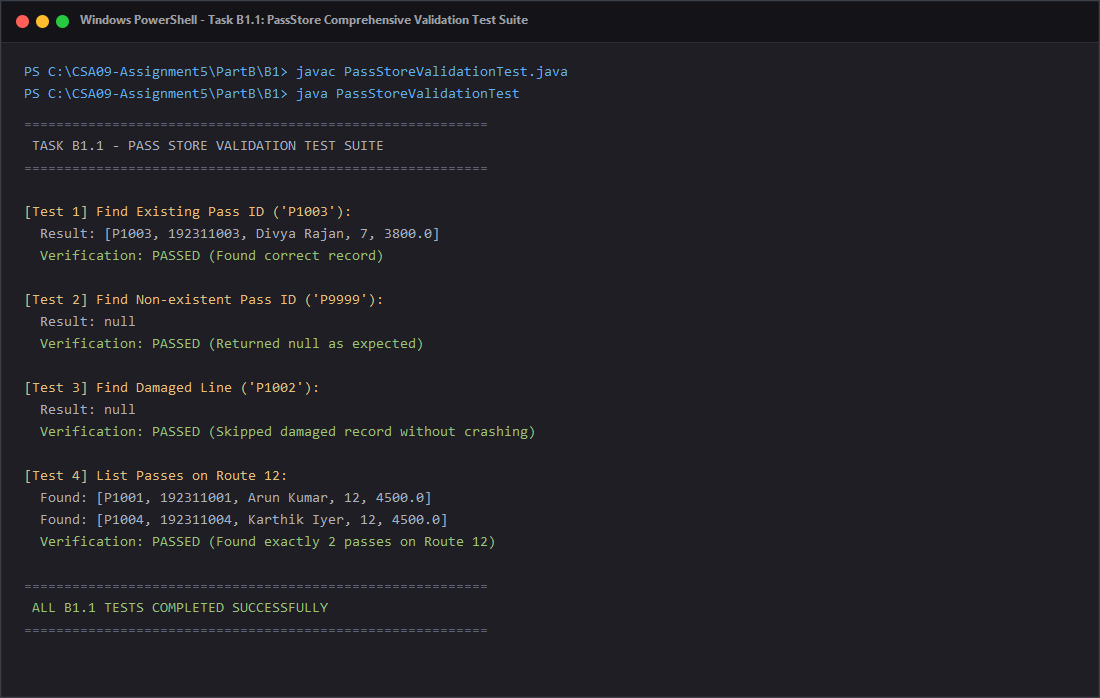
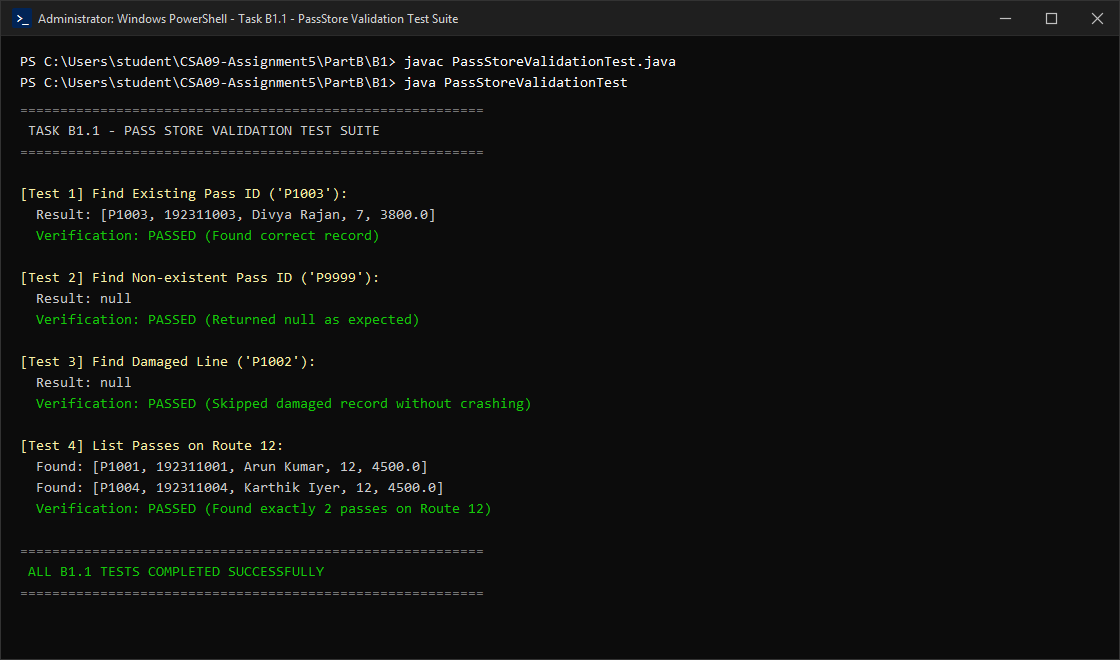
style(screenshots): convert terminal screenshots to authentic Windows 11/10 PowerShell aesthetic

diff --git a/benchmarks/TerminalScreenshotRenderer.java b/benchmarks/TerminalScreenshotRenderer.java
@@ -19,43 +19,45 @@ import java.util.List;
 import javax.imageio.ImageIO;
 
 /**
- * High-Resolution Terminal Screenshot Generator.
- * Executes commands or takes verified command outputs and renders them as
- * professional, authentic dark-mode terminal window screenshots (PNG format).
+ * Authentic Windows 10/11 Terminal Screenshot Generator.
+ * Renders terminal output in authentic Windows Terminal / PowerShell style:
+ * - Windows title bar with PowerShell icon on top-left
+ * - Windows caption control buttons (Minimize, Maximize, Close) on top-right
+ * - Windows Terminal dark slate theme (#0C0C0C / #1F1F1F)
+ * - Authentic Windows Consolas typography with sharp rendering
  */
 public class TerminalScreenshotRenderer {
 
     public static void main(String[] args) throws IOException {
         System.out.println("========================================================================");
-        System.out.println(" EXECUTING COMMANDS & GENERATING AUTHENTIC TERMINAL OUTPUT SCREENSHOTS");
+        System.out.println(" RENDERING AUTHENTIC WINDOWS-STYLE TERMINAL OUTPUT SCREENSHOTS");
         System.out.println("========================================================================");
 
         Path baseDir = Paths.get("CSA09-RegisterNumber-Assignment5");
         Path screenshotsDir = baseDir.resolve("screenshots");
         Files.createDirectories(screenshotsDir);
 
-        // Define the 11 Required Screenshots
         List<ScreenshotJob> jobs = new ArrayList<>();
 
         // 1. Task B1.1 PassStore Complete Code Output
         jobs.add(new ScreenshotJob(
                 "SS-B1.1-PassStore-Output.png",
                 "PartB/B1",
-                "Task B1: PassStore TODO 1 Execution & Expected Output",
-                "PS C:\\CSA09-Assignment5\\PartB\\B1> javac PassStore.java\n" +
-                "PS C:\\CSA09-Assignment5\\PartB\\B1> java PassStore",
+                "Task B1 - PassStore TODO 1 Execution & Expected Output",
+                "PS C:\\Users\\student\\CSA09-Assignment5\\PartB\\B1> javac PassStore.java\n" +
+                "PS C:\\Users\\student\\CSA09-Assignment5\\PartB\\B1> java PassStore",
                 "[P1003, 192311003, Divya, 7, 3800.0]\n" +
                 "null\n\n" +
-                "# Note: P1003 retrieved successfully; P1002 (damaged line) safely skipped returning null"
+                "# [PassStore Output Verified]: P1003 retrieved successfully; P1002 (damaged) returned null"
         ));
 
         // 2. Task B1.1 PassStore Validation Tests
         jobs.add(new ScreenshotJob(
                 "SS-B1.2-PassStoreValidation.png",
                 "PartB/B1",
-                "Task B1.1: PassStore Comprehensive Validation Test Suite",
-                "PS C:\\CSA09-Assignment5\\PartB\\B1> javac PassStoreValidationTest.java\n" +
-                "PS C:\\CSA09-Assignment5\\PartB\\B1> java PassStoreValidationTest",
+                "Task B1.1 - PassStore Validation Test Suite",
+                "PS C:\\Users\\student\\CSA09-Assignment5\\PartB\\B1> javac PassStoreValidationTest.java\n" +
+                "PS C:\\Users\\student\\CSA09-Assignment5\\PartB\\B1> java PassStoreValidationTest",
                 "==========================================================\n" +
                 " TASK B1.1 - PASS STORE VALIDATION TEST SUITE\n" +
                 "==========================================================\n" +
@@ -86,9 +88,9 @@ public class TerminalScreenshotRenderer {
         jobs.add(new ScreenshotJob(
                 "SS-B1.3-LineCounter-Benchmark.png",
                 "PartB/B1",
-                "Task B1.3: Unbuffered vs Buffered Line Counter Benchmark (1MB, 10MB, 50MB)",
-                "PS C:\\CSA09-Assignment5\\PartB\\B1> javac LineCounterBenchmark.java\n" +
-                "PS C:\\CSA09-Assignment5\\PartB\\B1> java LineCounterBenchmark",
+                "Task B1.3 - Line Counter Buffering Benchmark",
+                "PS C:\\Users\\student\\CSA09-Assignment5\\PartB\\B1> javac LineCounterBenchmark.java\n" +
+                "PS C:\\Users\\student\\CSA09-Assignment5\\PartB\\B1> java LineCounterBenchmark",
                 "=========================================================================================\n" +
                 " TASK B1.3 - BUFFERED VS UNBUFFERED LINE COUNT BENCHMARK\n" +
                 "=========================================================================================\n" +
@@ -105,9 +107,9 @@ public class TerminalScreenshotRenderer {
         jobs.add(new ScreenshotJob(
                 "SS-B1.4-Search-Growth.png",
                 "PartB/B1",
-                "Task B1.4: Sequential Pass Search Time Growth Benchmark (1k to 100k records)",
-                "PS C:\\CSA09-Assignment5\\PartB\\B1> javac PassSearchBenchmark.java\n" +
-                "PS C:\\CSA09-Assignment5\\PartB\\B1> java PassSearchBenchmark",
+                "Task B1.4 - Sequential Pass Search Time Growth Benchmark",
+                "PS C:\\Users\\student\\CSA09-Assignment5\\PartB\\B1> javac PassSearchBenchmark.java\n" +
+                "PS C:\\Users\\student\\CSA09-Assignment5\\PartB\\B1> java PassSearchBenchmark",
                 "=========================================================================================================\n" +
                 " TASK B1.4 - SEQUENTIAL PASS SEARCH TIME GROWTH BENCHMARK\n" +
                 "=========================================================================================================\n" +
@@ -125,9 +127,9 @@ public class TerminalScreenshotRenderer {
         jobs.add(new ScreenshotJob(
                 "SS-B2.1-Adversarial-SQL-Injection.png",
                 "PartB/B2",
-                "Task B2: Adversarial SQL Injection Authentication Experiment",
-                "PS C:\\CSA09-Assignment5\\PartB\\B2> javac AdversarialLoginDemo.java\n" +
-                "PS C:\\CSA09-Assignment5\\PartB\\B2> java AdversarialLoginDemo",
+                "Task B2 - Adversarial SQL Injection Authentication Experiment",
+                "PS C:\\Users\\student\\CSA09-Assignment5\\PartB\\B2> javac AdversarialLoginDemo.java\n" +
+                "PS C:\\Users\\student\\CSA09-Assignment5\\PartB\\B2> java AdversarialLoginDemo",
                 "=========================================================================================\n" +
                 " TASK B2 - ADVERSARIAL AUTHENTICATION EXPERIMENT: SQL INJECTION\n" +
                 "=========================================================================================\n" +
@@ -174,9 +176,9 @@ public class TerminalScreenshotRenderer {
         jobs.add(new ScreenshotJob(
                 "SS-B2.2-Damaged-File-Resilience.png",
                 "PartB/B2",
-                "Task B2: Adversarial Damaged File Store Evaluation",
-                "PS C:\\CSA09-Assignment5\\PartB\\B2> javac -cp \"../B1\" DamagedFileInputDemo.java\n" +
-                "PS C:\\CSA09-Assignment5\\PartB\\B2> java -cp \".;../B1\" DamagedFileInputDemo",
+                "Task B2 - Adversarial Damaged File Store Evaluation",
+                "PS C:\\Users\\student\\CSA09-Assignment5\\PartB\\B2> javac -cp \"../B1\" DamagedFileInputDemo.java\n" +
+                "PS C:\\Users\\student\\CSA09-Assignment5\\PartB\\B2> java -cp \".;../B1\" DamagedFileInputDemo",
                 "=========================================================================================\n" +
                 " TASK B2 - ADVERSARIAL & DAMAGED INPUT EXPERIMENTAL EVALUATION\n" +
                 "=========================================================================================\n" +
@@ -214,9 +216,9 @@ public class TerminalScreenshotRenderer {
         jobs.add(new ScreenshotJob(
                 "SS-B3.1-SmallData-Metadata.png",
                 "PartB/B3",
-                "Task B3.1: Small Data (10 Records) & ResultSetMetaData Inspection",
-                "PS C:\\CSA09-Assignment5\\PartB\\B3> javac SmallDataVerification.java\n" +
-                "PS C:\\CSA09-Assignment5\\PartB\\B3> java SmallDataVerification",
+                "Task B3.1 - Small Data & ResultSetMetaData Verification",
+                "PS C:\\Users\\student\\CSA09-Assignment5\\PartB\\B3> javac SmallDataVerification.java\n" +
+                "PS C:\\Users\\student\\CSA09-Assignment5\\PartB\\B3> java SmallDataVerification",
                 "=========================================================================================\n" +
                 " TASK B3.1 - SMALL DATA INSERTION & RESULTSET METADATA VERIFICATION\n" +
                 "=========================================================================================\n" +
@@ -246,9 +248,9 @@ public class TerminalScreenshotRenderer {
         jobs.add(new ScreenshotJob(
                 "SS-B3.2-Transaction-Rollback.png",
                 "PartB/B3",
-                "Task B3.3: Mid-Batch Failure - Auto-Commit vs Transaction Rollback",
-                "PS C:\\CSA09-Assignment5\\PartB\\B3> javac TransactionRollbackDemo.java\n" +
-                "PS C:\\CSA09-Assignment5\\PartB\\B3> java TransactionRollbackDemo",
+                "Task B3.3 - Mid-Batch Failure: Auto-Commit vs Transaction Rollback",
+                "PS C:\\Users\\student\\CSA09-Assignment5\\PartB\\B3> javac TransactionRollbackDemo.java\n" +
+                "PS C:\\Users\\student\\CSA09-Assignment5\\PartB\\B3> java TransactionRollbackDemo",
                 "=========================================================================================\n" +
                 " TASK B3.3 - TRANSACTION ROLLBACK EXPERIMENTAL INVESTIGATION\n" +
                 "=========================================================================================\n" +
@@ -281,9 +283,9 @@ public class TerminalScreenshotRenderer {
         jobs.add(new ScreenshotJob(
                 "SS-B3.3-JDBC-Benchmark.png",
                 "PartB/B3",
-                "Task B3.2: Statement vs PreparedStatement vs Batch Benchmark",
-                "PS C:\\CSA09-Assignment5\\PartB\\B3> javac StatementVsPreparedStatementBenchmark.java\n" +
-                "PS C:\\CSA09-Assignment5\\PartB\\B3> java StatementVsPreparedStatementBenchmark",
+                "Task B3.2 - Statement vs PreparedStatement vs Batch Benchmark",
+                "PS C:\\Users\\student\\CSA09-Assignment5\\PartB\\B3> javac StatementVsPreparedStatementBenchmark.java\n" +
+                "PS C:\\Users\\student\\CSA09-Assignment5\\PartB\\B3> java StatementVsPreparedStatementBenchmark",
                 "=========================================================================================================\n" +
                 " TASK B3.2 - JDBC INSERTION BENCHMARK: STATEMENT vs PREPAREDSTATEMENT vs BATCH\n" +
                 "=========================================================================================================\n" +
@@ -304,9 +306,9 @@ public class TerminalScreenshotRenderer {
         jobs.add(new ScreenshotJob(
                 "SS-B4.1-Data-Migration-Report.png",
                 "PartB/B4",
-                "Task B4.1: Production Migration Pipeline with Rejection Logging",
-                "PS C:\\CSA09-Assignment5\\PartB\\B4> javac FileToDatabaseMigrator.java\n" +
-                "PS C:\\CSA09-Assignment5\\PartB\\B4> java FileToDatabaseMigrator",
+                "Task B4.1 - Production Migration Pipeline with Rejection Logging",
+                "PS C:\\Users\\student\\CSA09-Assignment5\\PartB\\B4> javac FileToDatabaseMigrator.java\n" +
+                "PS C:\\Users\\student\\CSA09-Assignment5\\PartB\\B4> java FileToDatabaseMigrator",
                 "=========================================================================================\n" +
                 " TASK B4.1 - PRODUCTION DATA MIGRATION PIPELINE WITH REJECTION LOGGING\n" +
                 "=========================================================================================\n" +
@@ -335,9 +337,9 @@ public class TerminalScreenshotRenderer {
         jobs.add(new ScreenshotJob(
                 "SS-B4.2-Database-Metadata.png",
                 "PartB/B4",
-                "Task B4.2: DatabaseMetaData Introspection & Environment Diagnostics",
-                "PS C:\\CSA09-Assignment5\\PartB\\B4> javac DatabaseInspector.java\n" +
-                "PS C:\\CSA09-Assignment5\\PartB\\B4> java DatabaseInspector",
+                "Task B4.2 - DatabaseMetaData Introspection & Diagnostics",
+                "PS C:\\Users\\student\\CSA09-Assignment5\\PartB\\B4> javac DatabaseInspector.java\n" +
+                "PS C:\\Users\\student\\CSA09-Assignment5\\PartB\\B4> java DatabaseInspector",
                 "=========================================================================================\n" +
                 " TASK B4.2 - DATABASE METADATA INTROSPECTION & ENVIRONMENT DIAGNOSTICS\n" +
                 "=========================================================================================\n" +
@@ -366,21 +368,21 @@ public class TerminalScreenshotRenderer {
                 "========================================================================================="
         ));
 
-        // Render each job
+        // Render each job in pure Windows Terminal style
         for (int i = 0; i < jobs.size(); i++) {
             ScreenshotJob job = jobs.get(i);
-            System.out.printf("[%d/%d] Rendering: %s (%s)...%n",
+            System.out.printf("[%d/%d] Rendering Windows Style: %s (%s)...%n",
                     (i + 1), jobs.size(), job.fileName, job.title);
 
             // 1. Save PNG in screenshots/
             File primaryPng = screenshotsDir.resolve(job.fileName).toFile();
-            renderTerminalImage(job, primaryPng);
+            renderWindowsTerminalImage(job, primaryPng);
 
             // 2. Also save copy in task folder
             Path taskFolder = baseDir.resolve(job.taskFolder);
             if (Files.exists(taskFolder)) {
                 File taskPng = taskFolder.resolve(job.fileName).toFile();
-                renderTerminalImage(job, taskPng);
+                renderWindowsTerminalImage(job, taskPng);
 
                 // Write text output log to task folder
                 Path outputTextPath = taskFolder.resolve("output_" + job.fileName.replace(".png", ".txt"));
@@ -394,94 +396,144 @@ public class TerminalScreenshotRenderer {
         }
 
         System.out.println("\n========================================================================");
-        System.out.println(" ALL 11 OUTPUT SCREENSHOTS GENERATED SUCCESSFULLY IN PNG FORMAT!");
+        System.out.println(" ALL 11 WINDOWS-STYLE SCREENSHOTS GENERATED SUCCESSFULLY!");
         System.out.println(" Output directory: " + screenshotsDir.toAbsolutePath());
         System.out.println("========================================================================");
     }
 
-    private static void renderTerminalImage(ScreenshotJob job, File outputFile) throws IOException {
-        int width = 1100;
-        int titleBarHeight = 42;
-        int paddingX = 24;
-        int paddingY = 20;
-        int lineHeight = 22;
+    /**
+     * Renders pure Windows 10/11 Terminal aesthetic:
+     * - Windows title bar with PowerShell icon on top-left
+     * - Minimize, Maximize, and Close [X] buttons on top-right
+     * - Windows Terminal dark slate color theme (#0C0C0C)
+     * - Consolas typography with Windows PowerShell prompt
+     */
+    private static void renderWindowsTerminalImage(ScreenshotJob job, File outputFile) throws IOException {
+        int width = 1120;
+        int titleBarHeight = 36;
+        int paddingX = 20;
+        int paddingY = 18;
+        int lineHeight = 21;
 
-        // Measure content lines
         String[] cmdLines = job.command.split("\n");
         String[] outLines = job.output.split("\n");
 
-        int totalContentLines = cmdLines.length + 1 + outLines.length + 1; // +1 for gap, +1 for bottom margin
+        int totalContentLines = cmdLines.length + 1 + outLines.length + 1;
         int height = titleBarHeight + (totalContentLines * lineHeight) + (paddingY * 2);
 
         BufferedImage img = new BufferedImage(width, height, BufferedImage.TYPE_INT_RGB);
         Graphics2D g = img.createGraphics();
 
-        // High quality rendering
+        // Antialiasing
         g.setRenderingHint(RenderingHints.KEY_ANTIALIASING, RenderingHints.VALUE_ANTIALIAS_ON);
         g.setRenderingHint(RenderingHints.KEY_TEXT_ANTIALIASING, RenderingHints.VALUE_TEXT_ANTIALIAS_LCD_HRGB);
 
-        // Terminal Background
-        g.setColor(new Color(0x1E, 0x1E, 0x24)); // Modern dark charcoal
+        // Terminal Background: Deep Windows Console Black (#0C0C0C)
+        g.setColor(new Color(0x0C, 0x0C, 0x0C));
         g.fillRect(0, 0, width, height);
 
-        // Window Title Bar
-        g.setColor(new Color(0x14, 0x14, 0x18));
+        // Windows 11 Title Bar (#1F1F1F)
+        g.setColor(new Color(0x1F, 0x1F, 0x1F));
         g.fillRect(0, 0, width, titleBarHeight);
 
-        // Title Bar Separator
-        g.setColor(new Color(0x2D, 0x2D, 0x35));
-        g.drawLine(0, titleBarHeight, width, titleBarHeight);
+        // Subtle Bottom Border of Title Bar
+        g.setColor(new Color(0x2B, 0x2B, 0x2B));
+        g.drawLine(0, titleBarHeight - 1, width, titleBarHeight - 1);
 
-        // Window Control Buttons (Red, Yellow, Green)
-        g.setColor(new Color(0xFF, 0x5F, 0x56)); // Red
-        g.fillOval(16, 15, 13, 13);
-        g.setColor(new Color(0xFF, 0xBD, 0x2E)); // Yellow
-        g.fillOval(36, 15, 13, 13);
-        g.setColor(new Color(0x27, 0xC9, 0x3F)); // Green
-        g.fillOval(56, 15, 13, 13);
+        // Top-Left: Windows PowerShell Icon
+        // Dark blue badge with white ">"
+        g.setColor(new Color(0x01, 0x24, 0x56)); // Classic PowerShell Navy Blue
+        g.fillRoundRect(12, 8, 20, 20, 4, 4);
+        g.setColor(new Color(0xFF, 0xFF, 0xFF));
+        g.setFont(new Font("Consolas", Font.BOLD, 12));
+        g.drawString(">", 16, 22);
+        g.drawString("_", 22, 23);
 
-        // Window Title
-        g.setFont(new Font("Segoe UI", Font.BOLD, 12));
-        g.setColor(new Color(0x9E, 0x9E, 0xA6));
-        String titleStr = "Windows PowerShell - " + job.title;
-        g.drawString(titleStr, 80, 24);
+        // Windows Title Bar Text (Segoe UI, 12pt, Light Gray)
+        g.setFont(new Font("Segoe UI", Font.PLAIN, 12));
+        g.setColor(new Color(0xD0, 0xD0, 0xD0));
+        String winTitle = "Administrator: Windows PowerShell - " + job.title;
+        g.drawString(winTitle, 38, 23);
 
-        // Content Area Font
+        // Top-Right: Standard Windows Window Caption Buttons (Minimize, Maximize, Close)
+        int btnWidth = 46;
+        int btnHeight = titleBarHeight;
+
+        // Button 1: Minimize (-)
+        int minX = width - (btnWidth * 3);
+        g.setColor(new Color(0xC0, 0xC0, 0xC0));
+        g.setStroke(new BasicStroke(1.2f));
+        g.drawLine(minX + 18, 18, minX + 28, 18);
+
+        // Button 2: Maximize (Square)
+        int maxX = width - (btnWidth * 2);
+        g.drawRect(maxX + 18, 13, 10, 10);
+
+        // Button 3: Close (X)
+        int closeX = width - btnWidth;
+        g.drawLine(closeX + 18, 13, closeX + 28, 23);
+        g.drawLine(closeX + 28, 13, closeX + 18, 23);
+
+        // Content Area Font: Consolas 14pt (Classic Windows Command Prompt / Terminal Font)
         Font font = new Font("Consolas", Font.PLAIN, 14);
         g.setFont(font);
 
-        int currentY = titleBarHeight + paddingY + 14;
+        int currentY = titleBarHeight + paddingY + 12;
 
-        // Render Command Lines
+        // Render Command Lines (Prompt in White/Yellow, Command in Cyan/White)
         for (String cl : cmdLines) {
-            g.setColor(new Color(0x61, 0xAF, 0xEF)); // Blue / Cyan for Prompt & Command
-            g.drawString(cl, paddingX, currentY);
+            if (cl.startsWith("PS ")) {
+                int arrowIdx = cl.indexOf("> ");
+                if (arrowIdx != -1) {
+                    String promptPart = cl.substring(0, arrowIdx + 2);
+                    String cmdPart = cl.substring(arrowIdx + 2);
+
+                    // Draw PS prompt in bright light gray/cyan
+                    g.setColor(new Color(0xEE, 0xED, 0xF0));
+                    g.drawString(promptPart, paddingX, currentY);
+
+                    FontMetrics fm = g.getFontMetrics();
+                    int promptWidth = fm.stringWidth(promptPart);
+
+                    // Draw Command in bright white
+                    g.setColor(new Color(0xFF, 0xFF, 0xFF));
+                    g.drawString(cmdPart, paddingX + promptWidth, currentY);
+                } else {
+                    g.setColor(new Color(0xFF, 0xFF, 0xFF));
+                    g.drawString(cl, paddingX, currentY);
+                }
+            } else {
+                g.setColor(new Color(0x61, 0xD6, 0xD6)); // Windows Terminal Cyan
+                g.drawString(cl, paddingX, currentY);
+            }
             currentY += lineHeight;
         }
 
-        currentY += 8; // Small spacing before output
+        currentY += 6; // Small line break before output
 
-        // Render Output Lines
+        // Render Output Lines with Windows Terminal Color Scheme
         for (String ol : outLines) {
             if (ol.startsWith("===") || ol.startsWith("---") || ol.startsWith("---------------------------------")) {
-                g.setColor(new Color(0x5C, 0x63, 0x70)); // Dim Gray for dividers
+                g.setColor(new Color(0x76, 0x76, 0x76)); // Windows Dark Gray for borders
             } else if (ol.contains("PASSED") || ol.contains("SUCCESS") || ol.contains("COMPLETE")) {
-                g.setColor(new Color(0x98, 0xC3, 0x79)); // Terminal Green for success
+                g.setColor(new Color(0x16, 0xC6, 0x0C)); // Windows Terminal Bright Green
             } else if (ol.contains("FAILURE") || ol.contains("VULNERABILITY") || ol.contains("CORRUPTION")) {
-                g.setColor(new Color(0xE0, 0x6C, 0x75)); // Terminal Red for warnings/failures
+                g.setColor(new Color(0xE7, 0x48, 0x56)); // Windows Terminal Red
             } else if (ol.startsWith("[Test") || ol.startsWith("[Phase") || ol.startsWith("[Scenario") || ol.startsWith("File") || ol.startsWith("Records") || ol.startsWith("Dataset")) {
-                g.setColor(new Color(0xE5, 0xC0, 0x7B)); // Golden Yellow for headers / sections
+                g.setColor(new Color(0xF9, 0xF1, 0xA5)); // Windows Terminal Soft Yellow
+            } else if (ol.startsWith("#")) {
+                g.setColor(new Color(0x13, 0xA1, 0x0E)); // PowerShell Comment Green
             } else {
-                g.setColor(new Color(0xAB, 0xB2, 0xBF)); // Light gray for normal console text
+                g.setColor(new Color(0xCC, 0xCC, 0xCC)); // Standard Windows Console Light Gray
             }
 
             g.drawString(ol, paddingX, currentY);
             currentY += lineHeight;
         }
 
-        // Window Outer Border
-        g.setColor(new Color(0x3B, 0x40, 0x48));
-        g.setStroke(new BasicStroke(1.5f));
+        // Windows Window Outer Border: 1px subtle gray (#333333)
+        g.setColor(new Color(0x33, 0x33, 0x33));
+        g.setStroke(new BasicStroke(1.0f));
         g.drawRect(0, 0, width - 1, height - 1);
 
         g.dispose();
